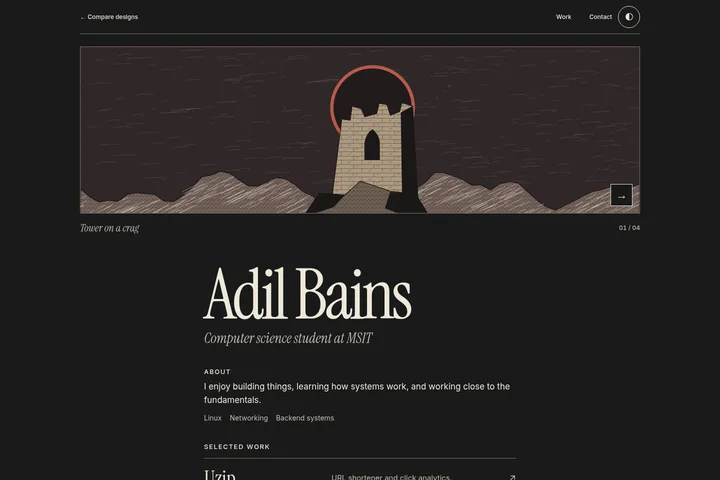
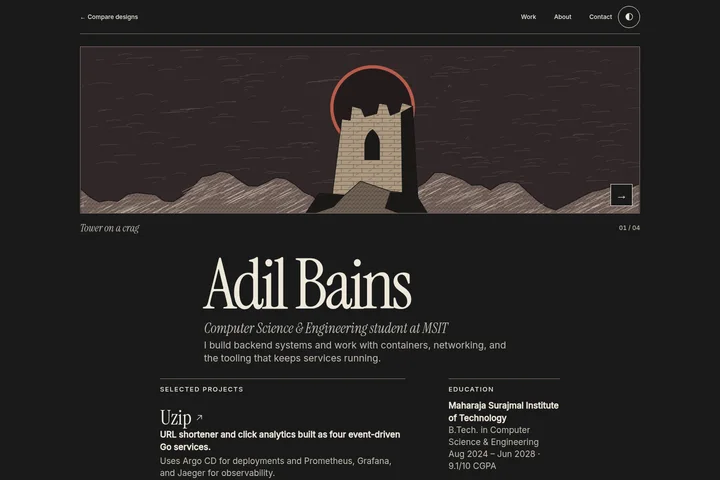
Ground gothic portfolios in résumé and improve layout

Changed region(s): [[0.2139, 0.5312, 0.7639, 1.0], [0.7639, 0.0312, 0.7944, 0.0625]]

diff --git a/src/designs/editions.css b/src/designs/editions.css
@@ -50,19 +50,27 @@
 }
 .edition .banner-meta { color: var(--muted); }
 .edition .banner-progress span { background: var(--accent); }
-.edition-projects, .edition-about ul, .comparison-list { list-style: none; margin: 0; padding: 0; }
-.edition-project {
-  display: grid;
-  grid-template-columns: minmax(0, .7fr) minmax(0, 1fr) auto;
-  gap: 12px 24px;
-  align-items: center;
-  padding-block: 19px;
-  text-decoration: none;
-  border-top: 1px solid var(--rule);
-}
-.edition-project:hover h3, .edition-project:focus-visible h3 { text-decoration: underline; color: var(--accent); }
-.edition-project p { color: var(--muted); font-size: 15px; line-height: 1.5; }
-.edition-about ul { display: flex; flex-wrap: wrap; gap: 6px 16px; color: var(--muted); }
+.edition-projects, .project-stack, .hackathon-list, .comparison-list { list-style: none; margin: 0; padding: 0; }
+.edition-body { display: grid; grid-template-columns: minmax(0, 1.65fr) minmax(0, .75fr); gap: 34px clamp(32px, 6vw, 90px); margin-top: 26px; }
+.edition-primary > section + section, .edition-profile > section + section { margin-top: 29px; }
+.edition-body section { border-top: 1px solid var(--rule); padding-top: 12px; }
+.edition-body h2 { margin-bottom: 12px; }
+.edition-project { padding-block: 12px 16px; }
+.edition-project + .edition-project, .hackathon-list li + li { border-top: 1px solid var(--rule); }
+.edition-project h3 a { display: inline-flex; align-items: center; gap: 8px; min-height: 44px; text-decoration: none; }
+.edition-project h3 a:hover, .edition-project h3 a:focus-visible { text-decoration: underline; color: var(--accent); }
+.edition-project p, .edition-profile p, .skill-list, .hackathon-list p { color: var(--muted); font-size: .85em; line-height: 1.42; }
+.edition-project p:first-of-type, .edition-profile .degree { color: var(--ink); font-weight: 600; }
+.project-detail { margin-top: 4px; }
+.project-stack { display: flex; flex-wrap: wrap; gap: 4px 11px; margin-top: 8px; color: var(--muted); font: 500 12px/1.4 Inter, system-ui, sans-serif; }
+.project-stack li + li::before { content: '·'; margin-right: 9px; color: var(--accent); }
+.skill-list { margin: 0; }
+.skill-list div + div { margin-top: 9px; }
+.skill-list dt { font-weight: 600; color: var(--ink); }
+.skill-list dd { margin: 0; }
+.hackathon-list li { display: grid; grid-template-columns: minmax(0, .7fr) minmax(0, 1fr); align-items: baseline; gap: 6px 18px; padding-block: 10px; }
+.hackathon-list h3 { font-weight: 600; }
+.edition-intro { max-width: 54ch; margin-top: 5px; color: var(--muted); font-size: clamp(15px, 2vw, 19px); line-height: 1.4; }
 .edition-footer {
   display: flex;
   flex-wrap: wrap;
@@ -77,35 +85,29 @@
 .edition-footer small { margin-left: auto; color: var(--muted); font-size: 12px; }
 
 .manga { --paper: #f7f4ed; --ink: #171515; --rule: #4f4744; }
-.manga .edition-hero { padding-top: clamp(25px, 5vw, 64px); }
+.manga .edition-hero { padding-top: clamp(19px, 3vw, 42px); }
 .manga .edition-title { border-left: 5px solid var(--accent); padding-left: clamp(12px, 3vw, 33px); margin-bottom: 23px; }
 .manga h1 { font: 400 clamp(67px, 14vw, 191px)/.86 UnifrakturMaguntia, Georgia, serif; }
 .manga .edition-subtitle { margin-top: 14px; font-size: clamp(12px, 1.5vw, 16px); }
 .manga .banner-frame { border: 3px solid var(--ink); }
 .manga .scene img { filter: grayscale(1) contrast(1.2); }
-.manga .edition-body { display: grid; grid-template-columns: minmax(0, .6fr) minmax(0, 1.4fr); gap: clamp(25px, 6vw, 92px); margin-top: 32px; }
-.manga :is(.edition-about, .edition-work) { border-top: 3px solid var(--ink); padding-top: 9px; }
+.manga .edition-body section { border-top: 3px solid var(--ink); }
 .manga h2 { font: 700 15px/1.2 Inter, sans-serif; text-transform: uppercase; letter-spacing: .09em; margin-bottom: 14px; }
 .manga h3 { font: 700 clamp(20px, 3.3vw, 42px)/1 Inter, sans-serif; letter-spacing: -.065em; overflow-wrap: anywhere; }
-.manga .edition-about p { font-size: 17px; }
-.manga .edition-about ul { margin-top: 13px; font-size: 13px; }
 .manga .edition-footer h2 { margin: 0; }
 
 .manuscript { --paper: #f1e4c9; --ink: #352216; --muted: #614c35; --rule: #997748; --accent: #814426; }
 [data-theme="dark"] .manuscript { --paper: #221c16; --ink: #f2e2bb; --muted: #d6bf96; --rule: #967950; --accent: #efbb7a; }
 .manuscript { font-family: "Cormorant Garamond", Georgia, serif; font-weight: 600; }
-.manuscript .edition-hero { display: grid; grid-template-columns: minmax(0, .86fr) minmax(0, 1fr); gap: clamp(25px, 6vw, 72px); align-items: center; padding-block: clamp(24px, 6vw, 80px) 28px; }
+.manuscript .edition-hero { display: grid; grid-template-columns: minmax(0, .86fr) minmax(0, 1fr); gap: clamp(25px, 6vw, 72px); align-items: center; padding-block: clamp(20px, 4vw, 54px) 5px; }
 .manuscript .edition-title { border-top: 4px double var(--rule); border-bottom: 4px double var(--rule); padding-block: 23px; }
 .manuscript h1 { font: 700 clamp(59px, 9.3vw, 135px)/.82 "Cormorant Garamond", Georgia, serif; }
 .manuscript .edition-subtitle { font-style: italic; font-size: clamp(22px, 3vw, 32px); line-height: 1.05; margin-top: 18px; }
-.manuscript-intro { color: var(--muted); font-size: clamp(19px, 2.2vw, 26px); line-height: 1.23; margin-top: 17px; max-width: 29ch; }
+.manuscript .edition-intro { color: var(--muted); font-size: clamp(19px, 2.2vw, 26px); line-height: 1.23; margin-top: 17px; max-width: 29ch; }
 .manuscript .banner-frame { aspect-ratio: 5 / 4; border: 7px double var(--rule); }
 .manuscript .scene img { filter: sepia(.3); }
-.manuscript .edition-body { max-width: 800px; margin-inline: auto; }
-.manuscript .edition-about { display: flex; flex-wrap: wrap; align-items: baseline; gap: 7px 22px; margin-bottom: 24px; }
+.manuscript .edition-body { max-width: 920px; margin-inline: auto; }
 .manuscript h2 { font: 600 15px/1.3 Cinzel, Georgia, serif; letter-spacing: .06em; }
-.manuscript .edition-work h2 { margin-bottom: 14px; text-align: center; }
-.manuscript .edition-project { padding-inline: clamp(0px, 2vw, 18px); }
 .manuscript h3 { font: 700 clamp(21px, 4vw, 38px)/1 "Cormorant Garamond", Georgia, serif; }
 .manuscript h3::first-letter { font-size: 1.5em; color: var(--accent); }
 .manuscript .edition-project p { font-size: 20px; }
@@ -115,14 +117,11 @@
 [data-theme="dark"] .landscape { --paper: #191a19; --ink: #eee8da; --muted: #c4bcaf; --rule: #81746a; --accent: #e9a493; }
 .landscape .edition-hero { padding-top: 25px; }
 .landscape .banner-frame { aspect-ratio: 3.35; border-color: var(--rule); }
-.landscape .edition-title, .landscape .edition-body, .landscape .edition-footer { max-width: 624px; margin-inline: auto; }
-.landscape .edition-title { margin-top: clamp(20px, 5vw, 53px); }
+.landscape .edition-title, .landscape .edition-footer { max-width: 624px; margin-inline: auto; }
+.landscape .edition-title { margin-top: clamp(15px, 3vw, 33px); }
+.landscape .edition-body { max-width: 800px; margin-inline: auto; }
 .landscape h1 { font: 400 clamp(72px, 12vw, 140px)/.84 "Instrument Serif", Georgia, serif; }
 .landscape .edition-subtitle { font: italic 28px/1.1 "Instrument Serif", Georgia, serif; margin-top: 13px; color: var(--muted); }
-.landscape .edition-body { margin-top: 42px; }
-.landscape .edition-about { margin-bottom: 38px; }
-.landscape .edition-about p { font-size: 17px; margin-top: 8px; }
-.landscape .edition-about ul { font-size: 14px; margin-top: 12px; }
 .landscape h2 { font: 500 13px/1.35 Inter, sans-serif; letter-spacing: .13em; text-transform: uppercase; }
 .landscape .edition-work h2 { margin-bottom: 14px; }
 .landscape h3 { font: 400 clamp(27px, 4vw, 41px)/1 "Instrument Serif", Georgia, serif; }
@@ -140,10 +139,10 @@
 
 @media (max-width: 700px) {
   .edition, .comparison { padding-inline: 18px; }
-  .manuscript .edition-hero, .manga .edition-body, .comparison-list { grid-template-columns: minmax(0, 1fr); }
-  .edition-project { grid-template-columns: minmax(0, 1fr) auto; gap: 5px 12px; }
-  .edition-project p { grid-row: 2; }
-  .edition-project svg { grid-area: 1 / 2; }
+  .manuscript .edition-hero, .edition-body, .comparison-list { grid-template-columns: minmax(0, 1fr); }
+  .hackathon-list li { grid-template-columns: minmax(0, 1fr); }
+  .edition-nav nav { gap: 10px; }
+  .edition-nav { gap: 8px; }
   .edition-footer small { flex: 0 0 100%; margin-left: 0; }
   .manga h1 { font-size: clamp(57px, 16vw, 105px); }
   .landscape .banner-frame { min-height: 230px; }

diff --git a/src/designs/profile.ts b/src/designs/profile.ts
@@ -1,0 +1,14 @@
+export const introduction = 'I build backend systems and work with containers, networking, and the tooling that keeps services running.';
+
+export const skills = [
+  { label: 'Languages', value: 'Go, TypeScript, Python, Bash' },
+  { label: 'Infrastructure', value: 'Linux, Docker, Kubernetes, Helm, AWS, Terraform, Ansible' },
+  { label: 'Data and services', value: 'Kafka, Redis, PostgreSQL, ClickHouse, MongoDB, REST, gRPC' },
+  { label: 'Delivery and monitoring', value: 'GitHub Actions, Jenkins, Argo CD, Prometheus, Grafana, OpenTelemetry' },
+];
+
+export const hackathons = [
+  { project: 'CommanderD', event: 'HackAVENSIS', result: 'Runner-up', description: 'Analyzes crash logs and generates fix suggestions through GitHub Actions.' },
+  { project: 'Rasoyee', event: 'CTRL ALT VIBE', result: 'Top 8 finalist', description: 'Combines kitchen inventory, food recommendations, and ordering.' },
+  { project: 'Garuda', event: 'Smart India Hackathon', result: 'College level', description: 'A digital twin for engine health monitoring and anomaly detection.' },
+];

diff --git a/src/content.config.ts b/src/content.config.ts
@@ -9,6 +9,8 @@ const projects = defineCollection({
     description: z.string(),
     url: z.url({ protocol: /^https?$/ }),
     order: z.number().int(),
+    stack: z.array(z.string()).default([]),
+    detail: z.string().optional(),
   }),
 });
 

diff --git a/src/content/projects/taskqueue.md b/src/content/projects/taskqueue.md
@@ -1,6 +1,8 @@
 ---
 title: TaskQueue
-description: Distributed task queue with priority scheduling, retries, and Kubernetes worker autoscaling.
+description: Distributed task queue with priority scheduling, delayed jobs, and retries.
 url: https://github.com/ADIBAINS/TaskQueue
 order: 20
+stack: [TypeScript, Kafka, Redis, Kubernetes, KEDA]
+detail: Built the queue without a queue library and scaled workers based on Redis queue depth.
 ---

diff --git a/src/content/projects/travaasa.md b/src/content/projects/travaasa.md
@@ -1,6 +1,8 @@
 ---
 title: Travaasa
-description: Short-term stay booking platform with map-based search and listings for hosts.
+description: Short-term stay booking platform for guests and hosts.
 url: https://github.com/ADIBAINS/travaasa
 order: 30
+stack: [Node.js, Express, MongoDB, Cloudinary]
+detail: Includes map-based search, property listings, bookings, and reviews.
 ---

diff --git a/src/content/projects/uzip.md b/src/content/projects/uzip.md
@@ -1,6 +1,8 @@
 ---
 title: Uzip
-description: URL shortener and click analytics.
+description: URL shortener and click analytics built as four event-driven Go services.
 url: https://github.com/ADIBAINS/Uzip
 order: 10
+stack: [Go, Kafka, Kubernetes, ClickHouse]
+detail: Uses Argo CD for deployments and Prometheus, Grafana, and Jaeger for observability.
 ---
